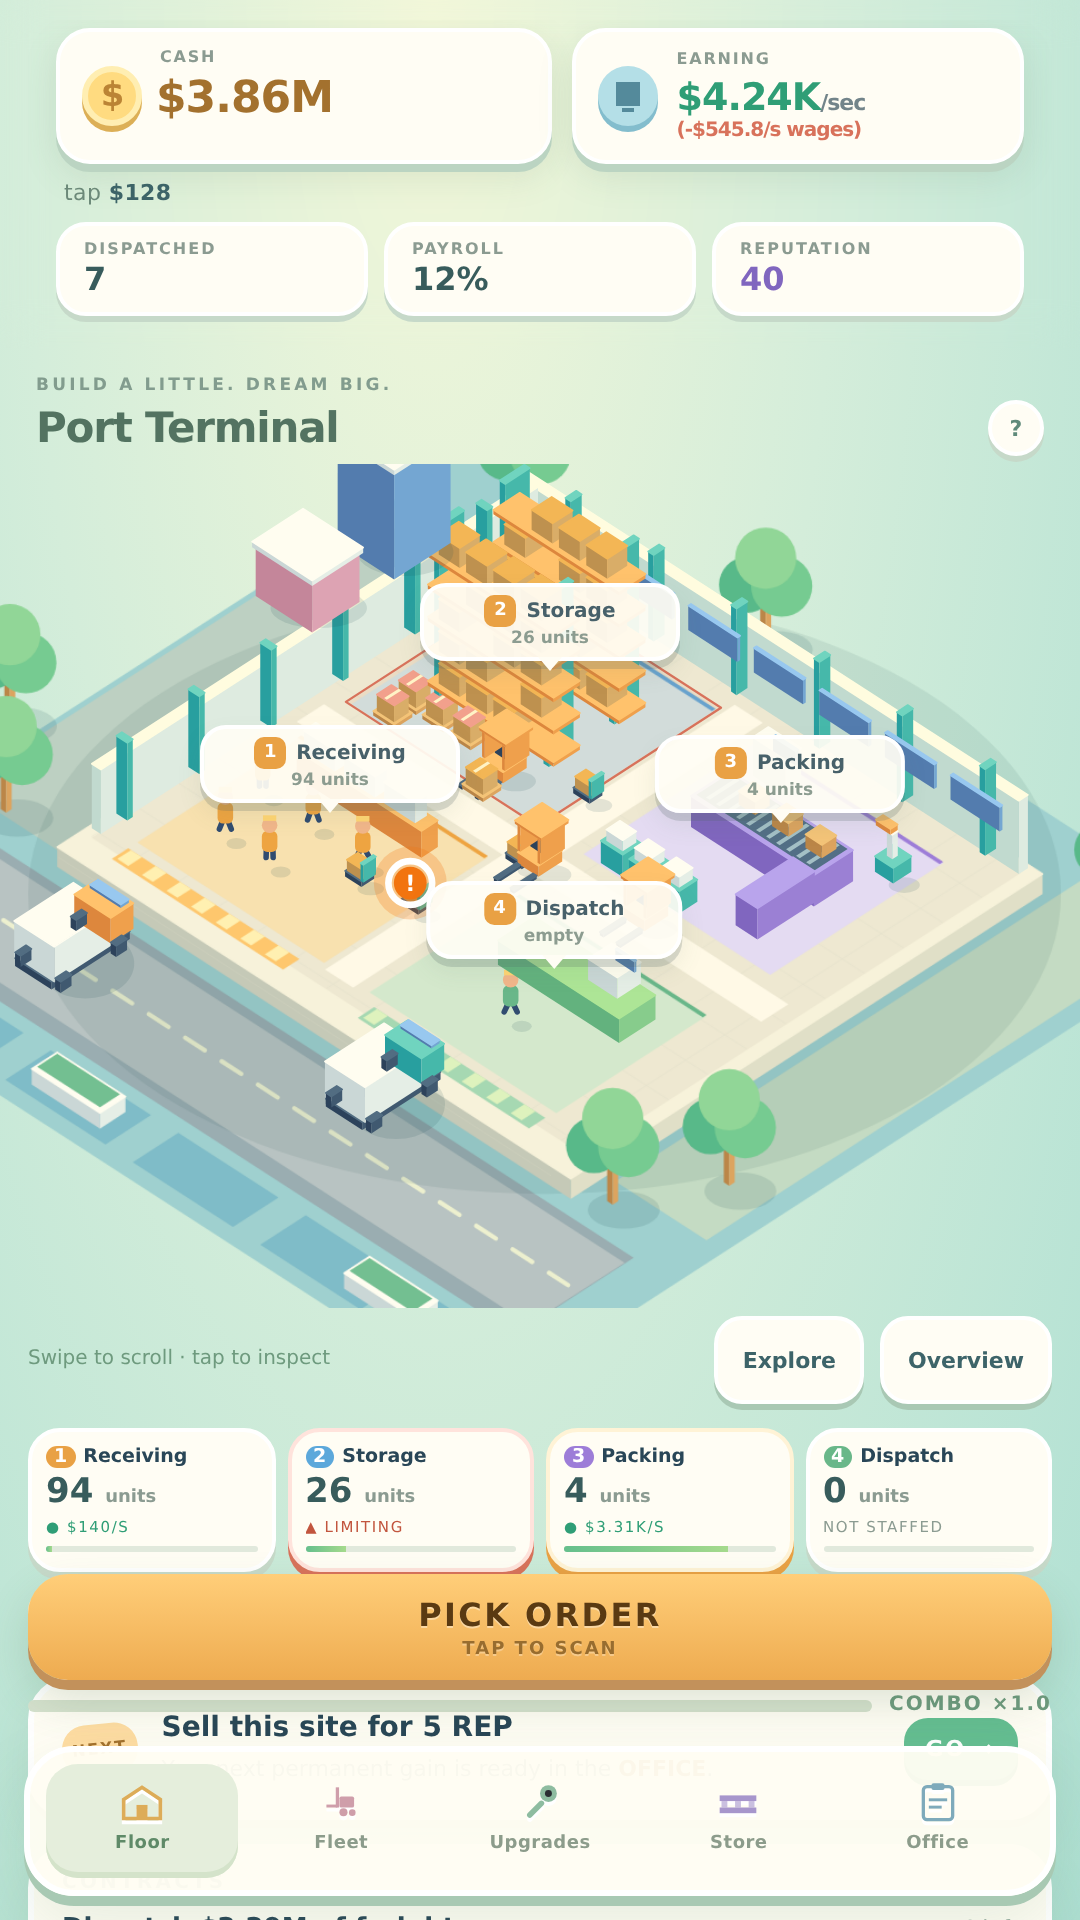
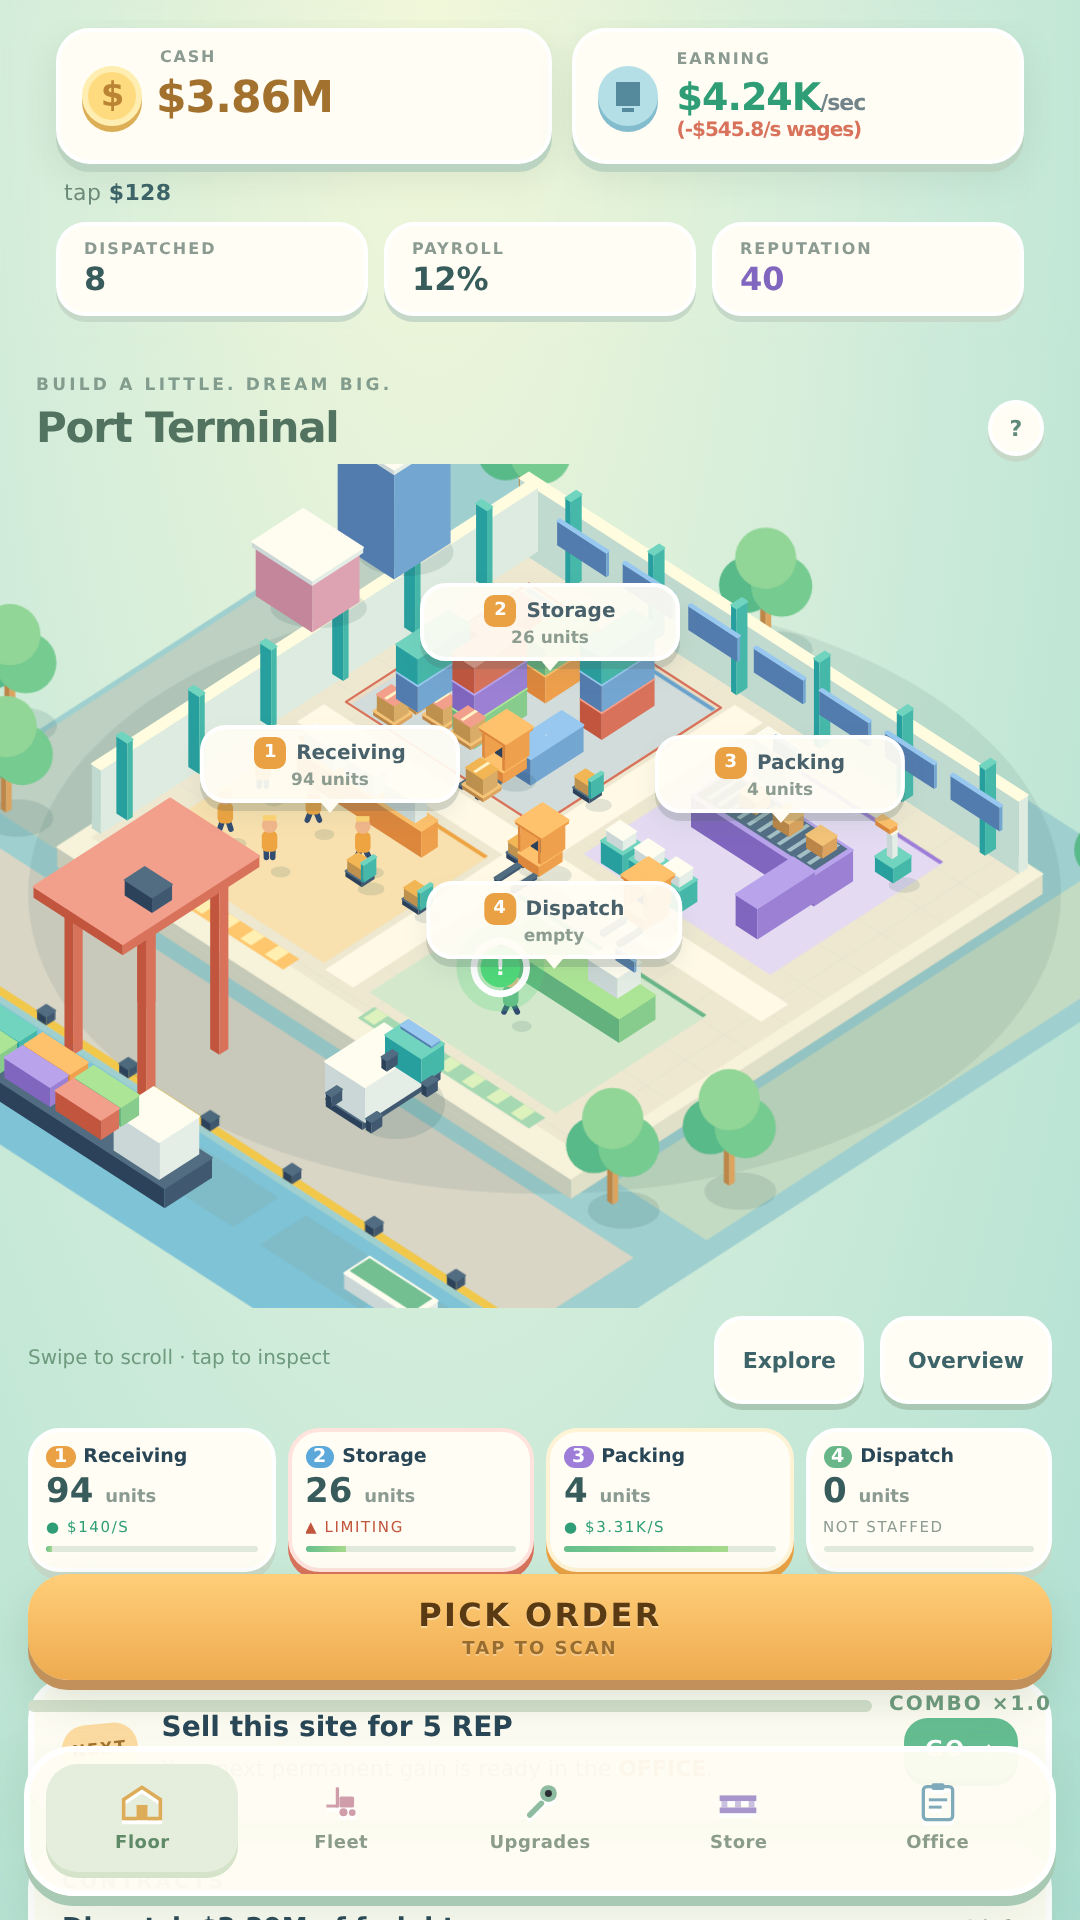
Dress each site type in the diorama: port, cold storage, dangerous goods
- Port Terminal: a quay and harbour in place of the road, a ship-to-shore
  crane working a container ship, containers stacked in storage.
- Cold Storage: insulated panels round storage with condensers on top,
  reefer lorries.
- Dangerous Goods: drums in caged bays, hazard banding and a bund wall,
  a warning diamond by the gate.
Store screenshots 03 and 04 recaptured; 03 no longer reads like 01.
test-diorama checks each site type draws differently from a general one.

Claude-Session: https://claude.ai/code/session_01PrK84LBuwqhXmUK59Cwd7A

diff --git a/warehouse-empire-android.html b/warehouse-empire-android.html
@@ -7182,6 +7182,14 @@ body.pocket #splashName{color:#315a59;} body.pocket #splashSub, body.pocket #spl
       if (col) pallet(g, x - 10, y + 17, col);
     }
     function trolley(g, x, y, col){ shadow(g, x, y, 12, 6); box(g, x - 9, y - 7, 18, 14, 2, 5, MAT.dark); box(g, x - 8, y - 6, 16, 12, 7, 10, { top:col, left:"#be914f", right:"#d9ad68" }); box(g, x + 8, y - 7, 3, 14, 7, 16, MAT.teal); }
+    function drum(g, x, y, col){
+      shadow(g, x, y, 9, 5, 0.1); box(g, x - 7, y - 7, 14, 14, 0, 22, { top:col, left:"#6b5a1e", right:"#9c8530" });
+      var p = P(x, y, 22); g.fillStyle = "#3b4a5a"; g.beginPath(); if (g.ellipse) g.ellipse(p.x, p.y, 9, 5, 0, 0, Math.PI * 2); g.fill();
+      g.fillStyle = col; g.beginPath(); if (g.ellipse) g.ellipse(p.x, p.y, 6.5, 3.5, 0, 0, Math.PI * 2); g.fill();
+    }
+    var BOXCOL = [MAT.red, MAT.blue, MAT.teal, MAT.orange, MAT.green, MAT.purple];
+    function container(g, x, y, z, m, along){ if (along) box(g, x, y, 58, 24, z, 24, m); else box(g, x, y, 24, 58, z, 24, m);
+      var top = P(x + (along ? 29 : 12), y + (along ? 12 : 29), z + 24); g.fillStyle = "rgba(255,255,255,.25)"; g.fillRect(top.x - 1, top.y - 1, 2, 2); }
     function along(pts, t){
       var seg = Math.min(pts.length - 1.001, Math.max(0, t) * (pts.length - 1)), i = Math.floor(seg), f = seg - i;
       return { x: pts[i].x + (pts[i + 1].x - pts[i].x) * f, y: pts[i].y + (pts[i + 1].y - pts[i].y) * f };
@@ -7210,8 +7218,16 @@ body.pocket #splashName{color:#315a59;} body.pocket #splashSub, body.pocket #spl
       if (g.clearRect) g.clearRect(0, 0, 1100, 950);
       var port = state.site === "port", cold = state.site === "cold";
       plane(g, -150, -95, 820, 815, -28, lv.grass || (port ? "#9fd0cf" : "#a7dba5"));
-      plane(g, -95, 515, 725, 130, -23, "#9aadb1"); plane(g, -95, 525, 725, 105, -22, "#b8c3c2");
-      line(g, [{x:-80,y:577,z:-20},{x:620,y:577,z:-20}], "#edf0cf", 4, [21, 18]);
+      if (port){
+        // A port fronts water, not a road: a concrete quay with the harbour beyond it.
+        plane(g, -150, 640, 820, 120, -30, "#7fc3d6");
+        for (var wv = 0; wv < 9; wv++) line(g, [{x:-120 + wv * 90,y:690,z:-29},{x:-80 + wv * 90,y:690,z:-29}], "rgba(255,255,255,.55)", 3);
+        plane(g, -95, 515, 725, 125, -23, "#d9d6c6"); plane(g, -95, 632, 725, 8, -23, "#f2c84b");
+        for (var bl = 0; bl < 8; bl++) box(g, -80 + bl * 90, 630, 10, 10, -23, 8, MAT.dark);
+      } else {
+        plane(g, -95, 515, 725, 130, -23, "#9aadb1"); plane(g, -95, 525, 725, 105, -22, "#b8c3c2");
+        line(g, [{x:-80,y:577,z:-20},{x:620,y:577,z:-20}], "#edf0cf", 4, [21, 18]);
+      }
       plane(g, -140, 5, 120, 480, -23, "#bdd0c2"); plane(g, 555, -80, 100, 540, -23, "#c4dbc3");
       if (port) for (var q = 0; q < 6; q++) plane(g, -150 + q * 140, 655, 110, 50, -27, "#7fbcc8");
       shadow(g, 280, 275, 465, 270, 0.09);
@@ -7227,6 +7243,12 @@ body.pocket #splashName{color:#315a59;} body.pocket #splashSub, body.pocket #spl
         var y = YARD[d]; plane(g, y.x, y.y, y.w, y.h, 4, cold && d === "store" ? "#c4e2f0" : y.floor);
         plane(g, y.x, y.y, y.w, 4, 5, y.stripe);
       });
+      if (state.site === "hazmat"){
+        // Dangerous goods: hazard banding round the storage yard and a bund at its edge.
+        var S2 = YARD.store;
+        for (var hz = 0; hz < 14; hz++) plane(g, S2.x + hz * 15, S2.y + S2.h - 8, 8, 8, 5, hz % 2 ? "#2c425b" : "#f2c84b");
+        for (var hv = 0; hv < 13; hv++) plane(g, S2.x + S2.w - 8, S2.y + hv * 15, 8, 8, 5, hv % 2 ? "#2c425b" : "#f2c84b");
+      }
       plane(g, 30, 470, 188, 18, 4, "#fec76d"); plane(g, 300, 470, 188, 18, 4, "#a6d8b2");
       for (var k = 0; k < 7; k++){ plane(g, 34 + k * 27, 471, 12, 15, 5, "#fff0b1"); plane(g, 304 + k * 27, 471, 12, 15, 5, "#def2bd"); }
       [[-45,-40],[620,-30],[640,420],[-150,420],[-74,500],[592,500],[200,-60]].forEach(function(t){ tree(g, t[0], t[1], 1.2); });
@@ -7271,7 +7293,28 @@ body.pocket #splashName{color:#315a59;} body.pocket #splashSub, body.pocket #spl
       })(j);
 
       // 2 Storage: racks rise with reach trucks; forklifts run between rows.
-      var levels = 2 + shown(o.reach || 0, 3), rows = (o.forklift || 0) > 0 ? 2 : 1;
+      var levels = 2 + shown(o.reach || 0, 3), rows = (o.forklift || 0) > 0 ? 2 : 1, site = state.site;
+      if (site === "port"){
+        // Containers, not racking: stacked in rows, higher as reach trucks arrive.
+        for (var cr = 0; cr < 2; cr++) for (var cc = 0; cc < 3; cc++) (function(cr, cc){
+          var x = 50 + cc * 62, y = 60 + cr * 78, high = Math.min(levels - 1, 1 + ((cc + cr) % 3));
+          add(160 + y + x * 0.01, function(){ for (var h = 0; h < high; h++) container(c, x, y, 4 + h * 25, BOXCOL[(cc * 3 + cr + h) % BOXCOL.length], false); });
+        })(cr, cc);
+        rows = 0;
+      } else if (site === "hazmat"){
+        // Drums in caged bays instead of racking.
+        for (var bay = 0; bay < rows; bay++) (function(bay){
+          var y = 62 + bay * 78;
+          add(160 + y, function(){
+            for (var px = 0; px < 4; px++) box(c, 56 + px * 46, y, 3, 3, 4, 44, MAT.dark);
+            for (var py = 0; py < 4; py++) box(c, 56 + py * 46, y + 50, 3, 3, 4, 44, MAT.dark);
+            line(c, [{x:56,y:y,z:48},{x:197,y:y,z:48},{x:197,y:y + 50,z:48},{x:56,y:y + 50,z:48},{x:56,y:y,z:48}], "#2c425b", 2);
+            for (var dx = 0; dx < 4 + Math.min(4, levels); dx++) for (var dy = 0; dy < 2; dy++) drum(c, 70 + dx * 17, y + 14 + dy * 22, (dx + dy) % 3 === 0 ? "#5ca8db" : "#f2c84b");
+          });
+        })(bay);
+        add(470, function(){ box(c, 32, 214, 200, 6, 4, 10, MAT.red); });
+        rows = 0;
+      }
       for (var r = 0; r < rows; r++) (function(r){
         var y = 70 + r * 72;
         add(160 + y, function(){
@@ -7287,6 +7330,31 @@ body.pocket #splashName{color:#315a59;} body.pocket #splashSub, body.pocket #spl
         var p = along(PATHS.store, ((t * 0.05) + f / Math.max(1, forks)) % 1);
         add(p.x + p.y + 25, function(){ forklift(c, p.x, p.y, f % 2 ? col : null); });
       })(f);
+
+      if (site === "cold"){
+        // A cold room: insulated panels round storage, condensers humming on top.
+        add(150, function(){ box(c, 26, 26, 214, 6, 3, 58, MAT.cream); box(c, 26, 26, 6, 204, 3, 58, MAT.cream);
+          plane(c, 26, 26, 214, 6, 52, "#9ccbe8");
+          for (var cu = 0; cu < 3; cu++){ var ux = 50 + cu * 62; box(c, ux, 18, 40, 22, 61, 18, MAT.dark); var fp = P(ux + 20, 29, 80); c.strokeStyle = "#98c8ef"; c.lineWidth = 2; c.beginPath(); c.arc(fp.x, fp.y, 7, 0, Math.PI * 2); c.stroke(); } });
+        add(640, function(){ box(c, 234, 26, 6, 204, 3, 58, MAT.cream); box(c, 26, 224, 214, 6, 3, 58, MAT.cream); plane(c, 234, 26, 6, 204, 61, "#9ccbe8"); });
+      }
+      if (site === "hazmat") add(30 + 470, function(){ box(c, 20, 470, 4, 4, 0, 46, MAT.dark); var dp = P(22, 472, 56);
+        c.fillStyle = "#f08a2c"; c.beginPath(); c.moveTo(dp.x, dp.y - 13); c.lineTo(dp.x + 13, dp.y); c.lineTo(dp.x, dp.y + 13); c.lineTo(dp.x - 13, dp.y); c.closePath(); c.fill();
+        c.fillStyle = "#2c425b"; c.font = "900 12px Trebuchet MS,system-ui"; c.textAlign = "center"; c.fillText("!", dp.x, dp.y + 5); });
+      if (site === "port"){
+        // A ship alongside the quay and the crane that works it.
+        add(1300, function(){
+          box(c, -40, 668, 360, 52, -34, 18, MAT.dark); box(c, 260, 672, 50, 44, -16, 34, MAT.cream);
+          for (var sc = 0; sc < 5; sc++) for (var sl = 0; sl < 2; sl++) box(c, -30 + sc * 56, 672 + sl * 22, 50, 20, -16, 18, BOXCOL[(sc + sl * 2) % BOXCOL.length]);
+        });
+        var sts = 20 + (Math.sin(t * 0.4) + 1) * 110;
+        add(1250, function(){
+          box(c, 140, 560, 10, 10, -23, 150, MAT.red); box(c, 140, 640, 10, 10, -23, 150, MAT.red);
+          box(c, 220, 560, 10, 10, -23, 150, MAT.red); box(c, 220, 640, 10, 10, -23, 150, MAT.red);
+          box(c, 136, 530, 98, 150, 127, 10, MAT.red);
+          box(c, 170, sts + 520, 30, 22, 112, 14, MAT.dark);
+        });
+      }
 
       // 3 Packing: a conveyor per tier owned, sorting robots beside it.
       var P3 = YARD.pack;
@@ -7333,9 +7401,11 @@ body.pocket #splashName{color:#315a59;} body.pocket #splashSub, body.pocket #spl
       // Lorries: one backing on to receiving, one leaving dispatch with the takings.
       var cycle = 12, u = (outbound.t % cycle) / cycle;
       var inX = 65, inY = 490 + Math.max(0, 1 - u * 3) * 120;
-      add(900 + inY, function(){ truck(c, inX, inY, LV.lorry); });
+      var lorryM = state.site === "cold" && LV.id === "hivis" ? MAT.blue : LV.lorry;
+      if (state.site !== "port") add(900 + inY, function(){ truck(c, inX, inY, lorryM); });
       var leaving = u > 0.7, outY = 490 + (leaving ? (u - 0.7) / 0.3 * 160 : 0);
-      add(1020 + outY, function(){ truck(c, 355, outY, MAT.teal); });
+      if (state.site !== "port") add(1020 + outY, function(){ truck(c, 355, outY, MAT.teal); });
+      else add(1020 + outY, function(){ truck(c, 355, Math.min(outY, 600), MAT.teal); });
       if (outbound.shown <= 0.7 && u > 0.7) outbound.pop = { at:t, amount: totalRate() * cycle };
       outbound.shown = u;
 

diff --git a/tests/test-diorama.js b/tests/test-diorama.js
@@ -42,6 +42,20 @@ const colours = (p, x0, y0, x1, y1) => p.evaluate(([x0, y0, x1, y1]) => {
     const full = await colours(p, 0, 0, all[0], all[1]);
     chk("the site is drawn, not blank", full.painted > 1000 && full.colours > 40, JSON.stringify(full));
 
+    // Each site type is dressed as itself: a port is not a general site with a new name.
+    const sig = () => p.evaluate(() => { const c = document.getElementById("wcanvas"), g = c.getContext("2d");
+      return Array.from(g.getImageData(0, 0, c.width, c.height).data.filter((_, i) => i % 400 === 0)); });
+    const gen = await sig();
+    const diff = {};
+    for (const site of ["port", "cold", "hazmat"]){
+      await p.evaluate(sv => { window.state.site = sv; }, site); await p.waitForTimeout(350);
+      const other = await sig(); let n = 0;
+      for (let i = 0; i < gen.length; i++) if (Math.abs(gen[i] - other[i]) > 24) n++;
+      diff[site] = Math.round(n / gen.length * 100);
+    }
+    await p.evaluate(() => { window.state.site = "general"; }); await p.waitForTimeout(300);
+    chk("each site type is dressed differently from a general site", diff.port > 8 && diff.cold > 2 && diff.hazmat > 2, JSON.stringify(diff) + "% of samples changed");
+
     // Buying a crane stands a gantry in the dispatch yard.
     const yard = await p.evaluate(() => { const D = window.__diorama.d, Y = D.YARD.dispatch, a = D.toScreen(Y.x, Y.y, 0), b2 = D.toScreen(Y.x + Y.w, Y.y + Y.h, 120);
       return [Math.max(0, Math.min(a.x, b2.x) - 60), Math.max(0, b2.y - 60), Math.max(a.x, b2.x) + 60, Math.max(a.y, b2.y) + 20]; });

diff --git a/docs/store-screenshots/README.md b/docs/store-screenshots/README.md
@@ -1,11 +1,6 @@
 # Play Store phone screenshots
 
 Captured from **5.0** (the Pocket look and the 3D site view are the defaults).
-**Known gap:** `03-port` now reads much like `01-site` at thumbnail size. The diorama
-draws a port only as water by the road, and the old shot's container stacks are on the
-plan view. Consider replacing 03 with a different site or the Office's Site Setup until
-the diorama gets per-site dressing.
-
 Previously captured from 4.4 (v31). 1080×1920 (9:16), which is Play's phone aspect.
 A 540×960 viewport at deviceScaleFactor 2 hits it exactly.
 
@@ -17,8 +12,8 @@ to read as different at thumbnail size.
 |---|---|---|
 | `01-site` | The 3D site: four department yards, fleet, lorries, company buildings | WATCH THE SITE RUN |
 | `02-last-truck` | The opening shift: S04 two-thirds loaded, the task docked above PICK ORDER | *(new in 4.4)* |
-| `03-port` | Port Terminal in Overview: container stacks in the racking | FOUR SITES |
-| `04-night-livery` | Dangerous Goods on the Night Shift livery: drum cages, dark estate | FOUR SITES |
+| `03-port` | Port Terminal: containers in storage, the quay crane and a ship alongside | FOUR SITES |
+| `04-night-livery` | Dangerous Goods on the Night Shift livery: drum cages, hazard banding, dimmed lot | FOUR SITES |
 | `05-rush` | A rush behind schedule: the bottleneck card with Expedite, and the Contracts panel | RUN FREIGHT AGAINST THE CLOCK |
 | `06-manifests` | All five, three open and two locked | CHOOSE YOUR MANIFEST |
 | `07-fleet` | The equipment ladder, with the marginal gain on each card | CLIMB THE EQUIPMENT LADDER |

diff --git a/docs/release-notes-5.0.md b/docs/release-notes-5.0.md
@@ -52,6 +52,14 @@ Bright new cards and a floating tab bar. Prefer the old look? Switch back any ti
   - your company buildings (Head Office, People, Training and the rest) appear round
     the lot once bought;
   - the department limiting your flow balance is outlined, with freight waiting in it.
+- **Each site type is dressed as itself:**
+
+  | Site | What's different |
+  |---|---|
+  | Port Terminal | a quay and harbour instead of the road, a ship-to-shore crane working a container ship, and containers stacked in storage |
+  | Cold Storage | an insulated cold room round storage, condensers on top, and reefer lorries |
+  | Dangerous Goods | drums in caged bays, hazard banding, a bund wall and a warning sign |
+
 - **Liveries carry over.** Racking, pillars, lorries and grass take your livery's
   colours, and night liveries dim the lot.
 - **Taps work as before:**
@@ -73,8 +81,7 @@ Bright new cards and a floating tab bar. Prefer the old look? Switch back any ti
    version name **5.0**.
 2. **Register in GA4:** `look_choice` on `look_set`. It records switches to Classic or
    Plan and back.
-3. **Store listing:** new screenshots are in `docs/store-screenshots/` (see that
-   README's note about 03). The feature graphic and icon still show the old dark style.
+3. **Store listing:** new screenshots are in `docs/store-screenshots/`. The feature graphic and icon still show the old dark style.
    The icon test is still running, so decide whether to wait for it to finish before
    changing the art.
 4. **What to watch:**
